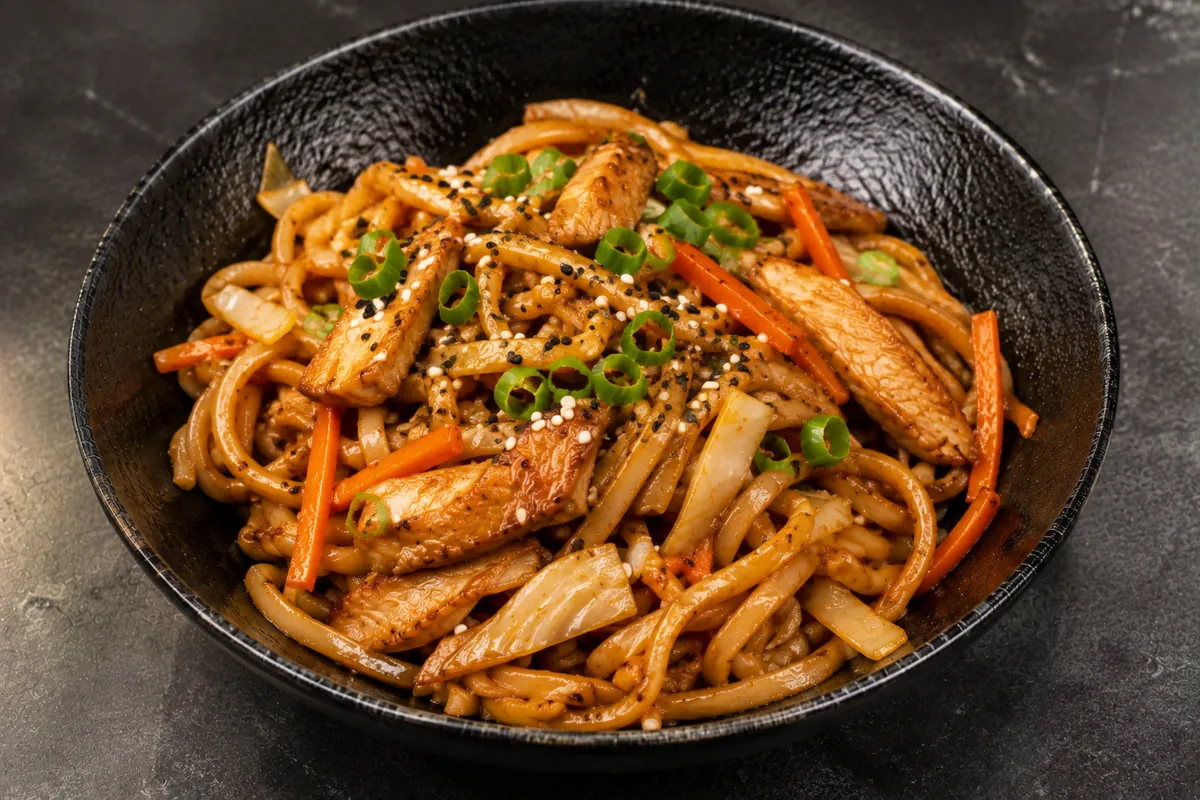
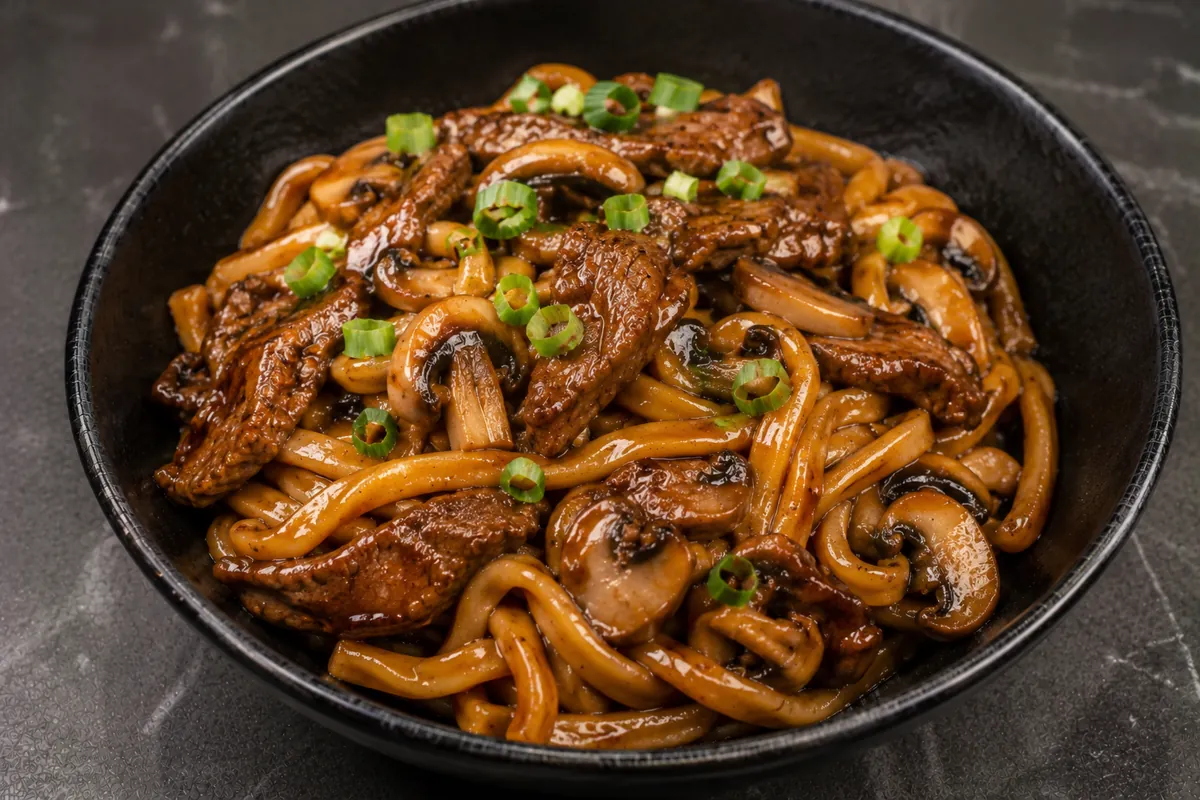
fix: serve the order API on Cloudflare Pages
The live site only hosted static files, so every checkout failed with a
405 from /api/orders. Add a Pages Function for the API, evaluate opening
hours in Israel time on any host, and show a Hebrew error when the
response is not JSON.

Also use a header slideshow image for the promo dish and restore the
earlier smoky noodles photo.

diff --git a/src/data/hours.ts b/src/data/hours.ts
@@ -11,8 +11,9 @@
  * minutes), not a halachic authority, which is an accepted trade-off for
  * gating an "open for orders" banner.
  *
- * All comparisons assume the visitor's device clock/timezone matches Israel
- * local time, which holds for this site's actual audience.
+ * All comparisons use Israel local time, whatever timezone the code runs in:
+ * the same function gates the browser UI and the order API, and the API's host
+ * may run in UTC.
  */
 
 const NAHARIYA_LAT = 33.0095;
@@ -29,6 +30,24 @@ const HAVDALAH_BUFFER_MINUTES = 70;
 export type StoreStatus = { open: true } | { open: false; reopensLabel: string };
 
 const HEBREW_DAY_NAMES = ['ראשון', 'שני', 'שלישי', 'רביעי', 'חמישי', 'שישי', 'שבת'];
+
+const ISRAEL_CLOCK = new Intl.DateTimeFormat('en-US', {
+  timeZone: 'Asia/Jerusalem',
+  hourCycle: 'h23',
+  year: 'numeric',
+  month: 'numeric',
+  day: 'numeric',
+  hour: 'numeric',
+  minute: 'numeric',
+  second: 'numeric',
+});
+
+/** A Date whose local fields (getHours, getDay…) read what a clock in Israel shows at `instant`. */
+function inIsrael(instant: Date): Date {
+  const parts: Record<string, number> = {};
+  for (const { type, value } of ISRAEL_CLOCK.formatToParts(instant)) parts[type] = Number(value);
+  return new Date(parts.year, parts.month - 1, parts.day, parts.hour, parts.minute, parts.second);
+}
 
 function sunsetUtc(date: Date, lat: number, lon: number): Date {
   const rad = Math.PI / 180;
@@ -75,7 +94,7 @@ function atLocalTime(date: Date, hours: number, minutes = 0): Date {
 
 function getSaturdayOpeningTime(saturday: Date): Date {
   const sunset = sunsetUtc(saturday, NAHARIYA_LAT, NAHARIYA_LON);
-  return new Date(sunset.getTime() + HAVDALAH_BUFFER_MINUTES * 60000);
+  return inIsrael(new Date(sunset.getTime() + HAVDALAH_BUFFER_MINUTES * 60000));
 }
 
 function formatHM(d: Date): string {
@@ -104,7 +123,8 @@ function nextOpeningLabel(now: Date): string {
   return '';
 }
 
-export function getStoreStatus(now: Date = new Date()): StoreStatus {
+export function getStoreStatus(instant: Date = new Date()): StoreStatus {
+  const now = inIsrael(instant);
   const day = now.getDay(); // 0=Sunday ... 5=Friday, 6=Saturday
 
   if (day >= 0 && day <= 4) {

diff --git a/src/data/hours.test.ts b/src/data/hours.test.ts
@@ -1,0 +1,32 @@
+import { describe, expect, it } from 'vitest';
+import { getStoreStatus } from './hours';
+
+// November: Israel is UTC+2. Results must not depend on the process timezone.
+describe('getStoreStatus uses Israel time', () => {
+  it.each([
+    ['Monday 10:59', '2026-11-09T08:59:00Z', false],
+    ['Monday 11:00', '2026-11-09T09:00:00Z', true],
+    ['Monday 22:59', '2026-11-09T20:59:00Z', true],
+    ['Monday 23:00', '2026-11-09T21:00:00Z', false],
+    ['Friday 00:30, still Thursday in UTC', '2026-11-12T22:30:00Z', false],
+    ['Friday noon', '2026-11-13T10:00:00Z', false],
+    ['Saturday 00:30, still Friday in UTC', '2026-11-13T22:30:00Z', false],
+    ['Saturday during Shabbat', '2026-11-14T12:00:00Z', false],
+    ['Saturday night', '2026-11-14T17:00:00Z', true],
+    ['Saturday 23:29', '2026-11-14T21:29:00Z', true],
+    ['Saturday 23:31', '2026-11-14T21:31:00Z', false],
+    ['Sunday 00:30, still Saturday in UTC', '2026-11-14T22:30:00Z', false],
+  ])('%s', (_label, instant, open) => {
+    expect(getStoreStatus(new Date(instant)).open).toBe(open);
+  });
+
+  it('honours daylight saving time', () => {
+    expect(getStoreStatus(new Date('2026-07-06T08:00:00Z')).open).toBe(true); // Monday 11:00, UTC+3
+    expect(getStoreStatus(new Date('2026-07-06T07:59:00Z')).open).toBe(false);
+  });
+
+  it('labels the next opening in Israel time', () => {
+    expect(getStoreStatus(new Date('2026-11-09T07:00:00Z'))).toEqual({ open: false, reopensLabel: 'היום ב-11:00' });
+    expect(getStoreStatus(new Date('2026-11-09T21:30:00Z'))).toEqual({ open: false, reopensLabel: 'מחר ב-11:00' });
+  });
+});

diff --git a/src/components/DishDetailsDialog.tsx b/src/components/DishDetailsDialog.tsx
@@ -72,7 +72,7 @@ export function DishDetailsDialog({ open, onClose, productId, line }: {
         <Box sx={{ display: 'grid', gridTemplateColumns: { xs: '1fr', md: 'minmax(0, 1fr) minmax(0, 1fr)' }, gap: 3, pt: 1 }}>
           <Stack spacing={2} sx={{ alignSelf: 'start' }}>
             {dish.image && <Box>
-              <MenuImage src={dish.image} alt={dish.name} aspectRatio="4 / 3" rounded={3} fit={[...drinks.items, ...sauces.items].some((item) => item.id === dish.id) ? 'contain' : 'cover'} eager />
+              <MenuImage src={dish.image} alt={dish.name} aspectRatio={dish.kind === 'promo' ? '823 / 755' : '4 / 3'} rounded={3} fit={[...drinks.items, ...sauces.items].some((item) => item.id === dish.id) ? 'contain' : 'cover'} eager />
               <ImageDisclaimer sx={{ mt: 0.5 }} />
             </Box>}
             <Typography sx={{ fontWeight: 800, fontSize: '1.45rem', color: COLORS.red }}>{dish.price}</Typography>

diff --git a/src/cart/CartContext.tsx b/src/cart/CartContext.tsx
@@ -136,8 +136,9 @@ export function CartProvider({ children }: { children: React.ReactNode }) {
             body: JSON.stringify({ items, customer, expectedSubtotal: totalPrice, requestId: requestIdRef.current.id }),
             signal: AbortSignal.timeout(15000),
           });
-          const result = await response.json();
-          if (!response.ok) throw new Error(result.error ?? 'לא ניתן לאמת את ההזמנה כרגע');
+          // A host or proxy failure can return an empty or non-JSON body.
+          const result = await response.json().catch(() => null);
+          if (!response.ok || !result) throw new Error(result?.error ?? 'לא ניתן לאמת את ההזמנה כרגע');
           const order = result as OrderSnapshot;
           writeStorage(LAST_ORDER_KEY, JSON.stringify(order));
           setLastOrder(order);

diff --git a/src/data/menu.ts b/src/data/menu.ts
@@ -41,13 +41,14 @@ export type MenuCategory = {
   items: MenuItem[];
 };
 
-const img = (name: string) => new URL(`../../photos-optimized/${name.replace(/\.(jpeg|png)$/, '.webp')}`, import.meta.url).href;
+// import.meta.url is undefined in the Cloudflare order function, which never renders images.
+const img = (name: string) => (import.meta.url ? new URL(`../../photos-optimized/${name.replace(/\.(jpeg|png)$/, '.webp')}`, import.meta.url).href : '');
 // Brand mark cropped from the supplied PDFs (public/logo.png), served from the site root.
 const logoUrl = '/logo.png';
 
 export const IMAGES = {
   hero: img('mokpatz123.jpeg'),
-  promo: img('promo-banner-full.jpeg'),
+  promo: '/promo-1.jpg',
   sushi1: img('sushi1.jpeg'),
   sushi2: img('sushi2.jpeg'),
   sushiCombo: img('sushiCombo.jpeg'),

diff --git a/functions/api/orders.ts b/functions/api/orders.ts
@@ -1,0 +1,4 @@
+import { handleRequest } from '../../server/handler';
+
+// Cloudflare Pages serves only static files from dist/; this exposes the order API there.
+export const onRequest = ({ request }: { request: Request }) => handleRequest(request);
